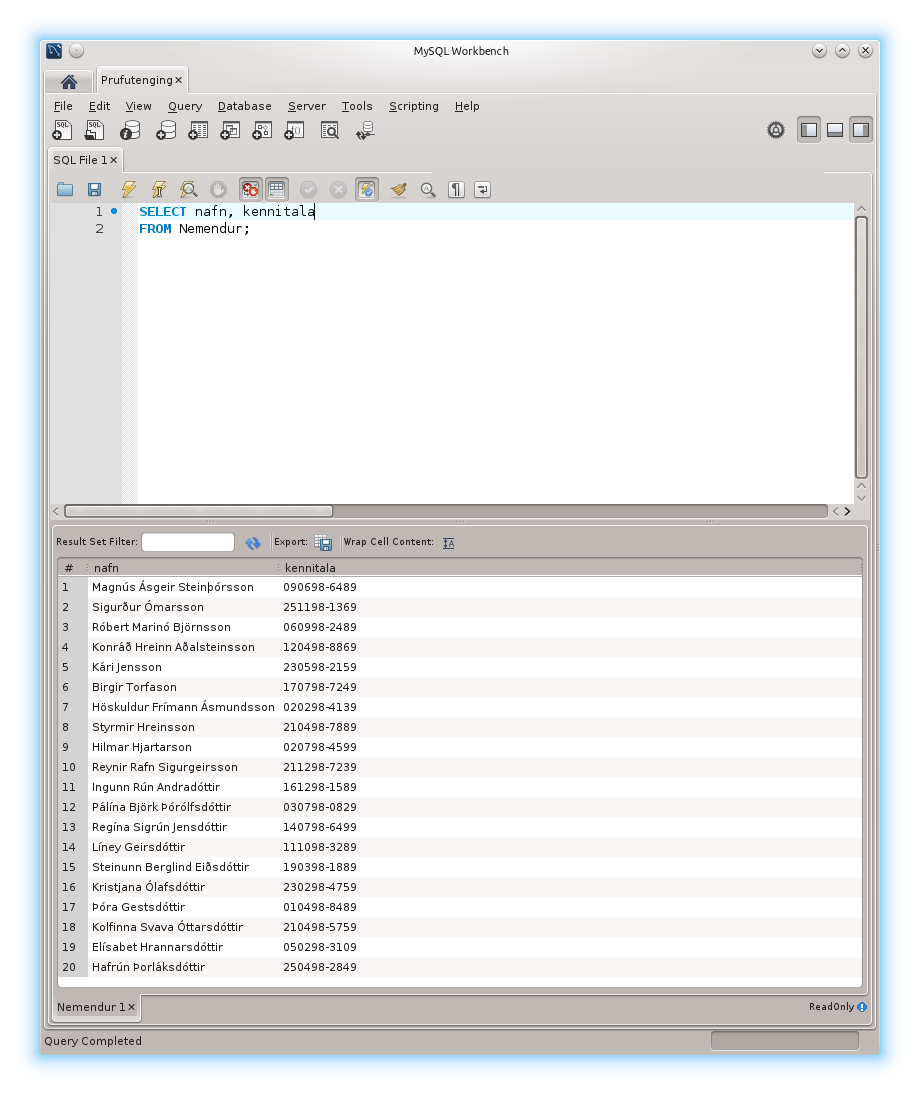
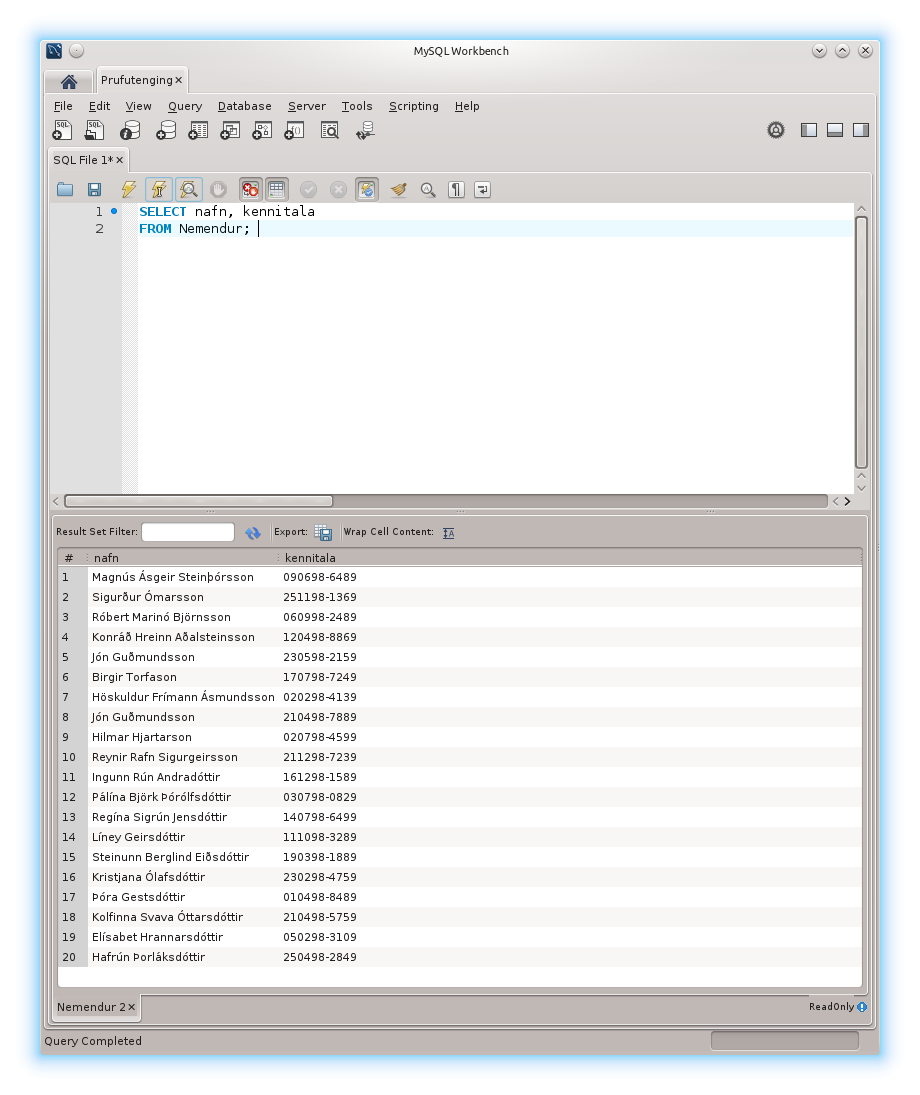
Grundvallarupplýsingar um WHERE settar inn.

diff --git a/Kafli4.tex b/Kafli4.tex
@@ -41,10 +41,10 @@ numer&nafn&kennitala&innritun\\
 2&Sigurður Ómarsson&251198-1369& 2014-06-04\\
 3&Róbert Marinó Björnsson&060998-2489& 2014-07-14\\
 4&Konráð Hreinn Aðalsteinsson&120498-8869& 2014-06-02\\
-5&Kári Jensson&230598-2159& 2014-07-03\\
+5&Jón Guðmundsson&230598-2159& 2014-07-03\\
 6&Birgir Torfason&170798-7249& 2014-06-06\\
 7&Höskuldur Frímann Ásmundsson&020298-4139& 2014-07-08\\
-8&Styrmir Hreinsson&210498-7889& 2014-06-11\\
+8&Jón Guðmundsson&210498-7889& 2014-06-11\\
 9&Hilmar Hjartarson&020798-4599& 2014-07-16\\
 10&Reynir Rafn Sigurgeirsson&211298-7239& 2014-06-12\\
 11&Ingunn Rún Andradóttir&161298-1589& 2014-07-05\\
@@ -122,11 +122,64 @@ Hafrún Þorláksdóttir&250498-2849\\
 \centering
 \includegraphics[width=\linewidth]{myndir/workbench-nidurstada-margir-dalkar}
 \end{figure*}
-\subsection{SELECT - FROM - WHERE}
-\section{ORDER BY}
-\subsection{LIMIT}
+\subsection{WHERE klausan}
+Hingað til höfum við valið heila dálka með \verb|SELECT| skipunum. Það sem við viljum hins vegar oftast gera er að finna ákveðnar upplýsingar í töflunni, frekar en að fá þær allar.
+
+Til þess að fá bara þær upplýsingar sem við viljum búum við til ``síu'' sem hleypir engum upplýsingum í gegn nema þeim sem við viljum.
+
+Slík sía þarf að innihalda lýsingu á þeim gögnum sem hleypa á í gegn. Það er gert í klausu sem við köllum \verb|WHERE| klausu og kemur fyrir aftan \verb|FROM| klausuna. Dæmi um þetta má sjá í sýnidæmum \ref{sql:k4d4-where-numer} til \ref{mynd:workbench-nidurstada-jon}.
+
+\begin{example}
+\caption[SELECT með WHERE klausu - eftir númeri]{\emph{SELECT} skipun með \emph{WHERE} klausu sem nær í nafn nemanda (úr töflu \ref{tafla:nemendur}) þar sem ``numer'' dálkurinn er með gildið 11. Hún skilar einni línu, nafninu Ingunn Rún Andradóttir.}
+\label{sql:k4d4-where-numer}
+\centering
+\sql{sql/k4d4-where-numer.sql}
+\end{example}
+
+\begin{example}
+\caption[SELECT með WHERE klausu - eftir nafni]{\emph{SELECT} skipun með \emph{WHERE} klausu sem nær í kennitölu nemanda eftir nafni hans. Hún skilar einni línu, kennitölunni 251198-1369.}
+\label{sql:k4d5-where-nafn}
+\centering
+\sql{sql/k4d5-where-nafn.sql}
+\end{example}
+
+\begin{example}
+\caption[SELECT með WHERE klausu - endurtekin gildi]{Skilyrðið sem sett er fram í \emph{WHERE} klausu getur átt við meira en eina línu í töflunni. Þessi skipun finnur nöfn og kennitölu allra sem heita Jón Guðmundsson. Þeir reynast vera tveir, með kennitölurnar 230598-2159 og 210498-7889.}
+\label{sql:k4d6-where-nafn-endurtekid}
+\centering
+\sql{sql/k4d6-where-nafn-endurtekid.sql}
+\end{example}
+
+\begin{figure*}[h]
+\caption[Niðurstöður margra dálka SELECT í Workbench]{Hér sést sýnidæmi \ref{sql:k4d6-where-nafn-endurtekid} í MySQL Workbench.}
+\label{mynd:workbench-nidurstada-jon}
+\centering
+\includegraphics[width=\linewidth]{myndir/workbench-nidurstada-jon}
+\end{figure*}
+\subsection{Samanburðir í WHERE}
+Í öllum \verb|WHERE| klausunum hér á undan er um að ræða síur sem henda öllu sem ekki uppfylla eitt, nákvæmt skilyrði. Skilyrðið í sýnidæmi \ref{sql:k4d4-where-numer}, \verb|numer = 11|, hleypir til dæmis einungis þeim nemanda sem er með nákvæmlega númerið 11 í gegn.
+
+Skilyrðin geta þó verið margs konar. Skilyrðið \verb|numer > 11| hleypir til dæmis öllum línum í gegn þar sem gildið í ``numer'' dálkinum er stærra en 11. Yfirlit yfir mögulega samanburði má sjá á töflu \ref{tafla:samanburdir}.
+
+\begin{table*}
+\centering
+\caption[Samanburðir]{Samanburðir sem nota mætti í \emph{WHERE} klausu \emph{SELECT} skipunar. Hér er \emph{numer} nafnið á dálki sem inniheldur tölur.}
+\label{tafla:samanburdir}
+\begin{tabular}{ll}
+\toprule
+Dæmi&Útskýring\\
+\midrule
+\emph{numer} = 5&Hleypir þeim línum í gegn þar sem gildið í \emph{numer} er nákvæmlega 5.\\
+\emph{numer} > 5&Hleypir þeim línum í gegn þar sem gildið í \emph{numer} er stærra en 5.\\
+\emph{numer} < 5&Hleypir þeim línum í gegn þar sem gildið í \emph{numer} er minna en 5.\\
+\emph{numer} >= 5&Hleypir þeim línum í gegn þar sem gildið í \emph{numer} er 5 eða stærra.\\
+\emph{numer} >= 5&Hleypir þeim línum í gegn þar sem gildið í \emph{numer} er 5 eða minna.\\
+\emph{numer} != 5 eða \emph{numer} <> 5&Hleypir þeim línum í gegn þar sem gildið í \emph{numer} er ekki 5.\\
+\bottomrule
+\end{tabular}
+\end{table*}
 \section{LIKE og ``wildcards''}
-\section{AND, OR og IN}
+\section{Mörg aðskilin skilyrði} % AND, OR, IN
 \section{Helstu einindaföll}
 \subsection{LENGTH}
 \subsection{ROUND}
@@ -137,3 +190,7 @@ Hafrún Þorláksdóttir&250498-2849\\
 \subsection{MIN og MAX}
 \subsection{COUNT}
 \section{HAVING}
+\section{ORDER BY}
+\subsection{LIMIT}
+\section{Yfirlit}
+\subsection{Uppbygging SELECT skipunarinnar}
